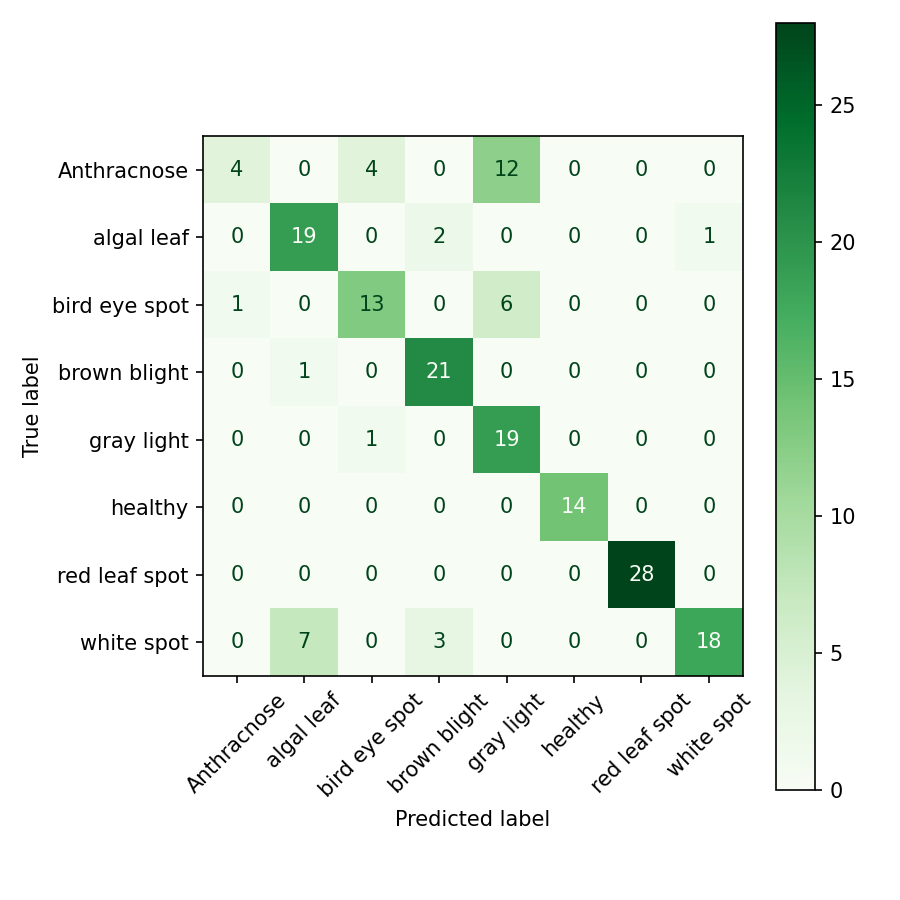
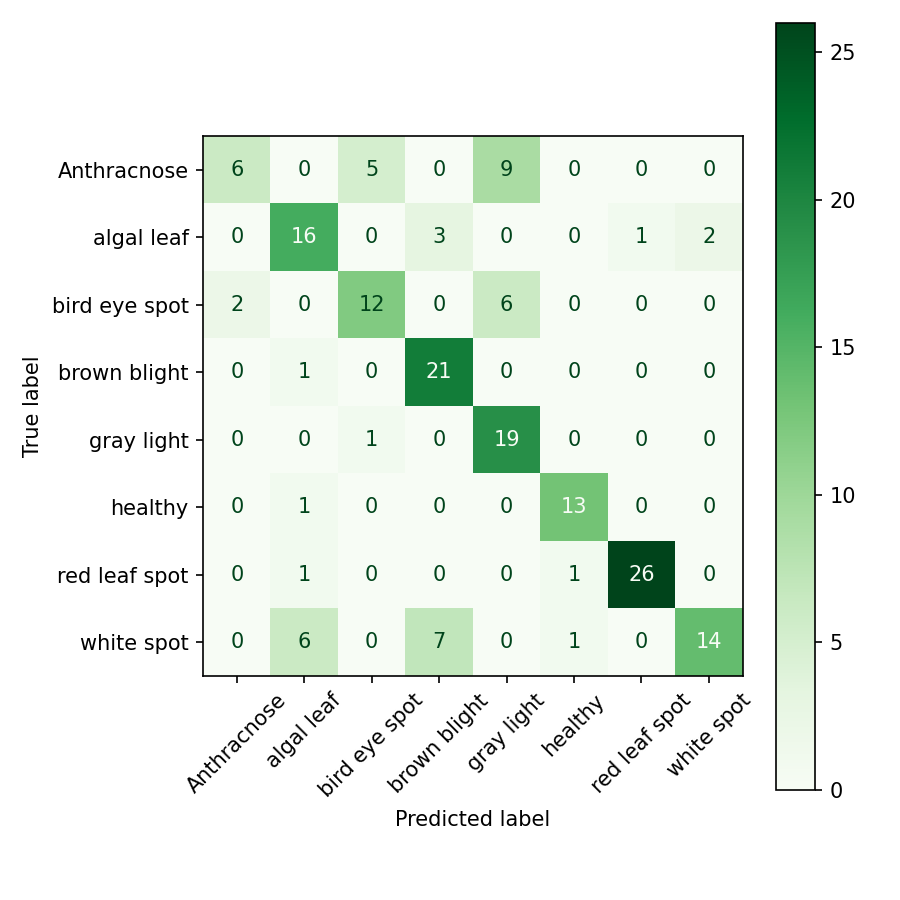
readme update

diff --git a/README.md b/README.md
@@ -20,7 +20,7 @@ This system focuses on **production constraints**: minimizing model size without
 | :--- | :--- | :--- | :--- |
 | **Model Size** | ~9.2 MB | **1.06 MB** | **9x Compression**  |
 | **Format** | FP32 Keras (.h5) | **INT8 TFLite** | Edge Compatible |
-| **Accuracy** | 88.4% (Fine-Tuned) | ~87.9% | <1% Drop |
+| **Accuracy** | 78.4% (Fine-Tuned) | ~77.9% | <1% Drop |
 
 ### 🛠 Tech Stack
 * **Core:** TensorFlow/Keras, OpenCV, NumPy
@@ -51,19 +51,6 @@ The dataset includes the following 8 classes, representing common diseases in te
 Given the limited dataset size (approx. 110 images per class), aggressive data augmentation was applied during training to prevent overfitting and improve generalization:
 * **Geometric:** Random Rotation (±30°), Horizontal Flip, Zoom (20%).
 * **Positional:** Width/Height Shifts (20%) to mimic off-center camera framing.
-
----
-
-## 💡 The "Explainability" Insight
-
-During the development phase, the model initially struggled with "Healthy" leaves under direct flash, misclassifying them as diseased.
-
-By implementing **Grad-CAM**, I visualized the model's attention layer and discovered it was triggering on **specular highlights (glare)** caused by camera flash, confusing them with white lesion spots.
-
-![Grad-CAM Debugging](results/result1.png)
-*Left: Original Image with Glare. Right: Heatmap showing AI falsely focusing on the reflection.*
-
-**Action Taken:** This insight confirmed that for the production hardware (`TeaRetina`), purely software fixes are insufficient. I recommended a hardware-level intervention: **Polarization filters** on the camera lens to eliminate surface glare, rather than just training on more noisy data.
 
 ---
 
@@ -98,25 +85,45 @@ Below are example artifacts you can generate and store in the `results/` directo
 
 ### 1. Training Dynamics
 
-![Training vs Validation Accuracy](results/train_val_accuracy.png)
-*Accuracy evolution across epochs. Ideally, training and validation curves stay close without divergence (overfitting).* 
+![Training vs Validation Metrics](results/train_val_metrics.png)
+*Left: Training and validation accuracy across epochs. Right: Training and validation loss across epochs.* 
 
-![Training vs Validation Loss](results/train_val_loss.png)
-*Loss curves should steadily decrease and stabilize without exploding or oscillating heavily.*
+*Curves should stay close - significant divergence indicates overfitting and suggests stronger regularization or more data is needed.*
 
 ### 2. Confusion Matrix
 
-![Confusion Matrix](results/confusion_matrix.png)
-*Highlights which disease classes are most frequently confused, guiding where to collect more data or refine augmentation.*
+<img src="results/confusion_matrix.png" alt="Confusion Matrix" width="480"/>
+
+*Reduced-size confusion matrix for readability — highlights which disease classes are most frequently confused, guiding where to collect more data or refine augmentation.*
 
 ### 3. Grad-CAM Visual Reasoning
 
-The Grad-CAM visualization below is an example of how the model focuses on discriminatory regions:
+The Grad-CAM visualizations below show two representative cases side-by-side: a failure mode caused by glare, and a correct classification where the model attends to a disease region.
+
+<div style="display:flex;gap:18px;align-items:flex-start;">
+	<div style="flex:1;text-align:center;">
+		<img src="results/result1.png" alt="Grad-CAM Misclassified" width="420"/>
+		<div><em>Misclassified (glare): model focuses on specular highlights rather than lesions.</em></div>
+	</div>
+	<div style="flex:1;text-align:center;">
+		<img src="results/result2.png" alt="Grad-CAM Correctly Classified" width="420"/>
+		<div><em>Correctly classified: heatmap highlights the lesion/necrotic region used for the decision.</em></div>
+	</div>
+</div>
+
+These paired visual explanations are useful for debugging and validation: the left example demonstrates a hardware-driven failure mode (glare) that motivated the polarizing filter recommendation, while the right example confirms the model can correctly localize pathology when image quality is sufficient.
+
+---
+## 💡 The "Explainability" Insight
+
+During the development phase, the model initially struggled with "Healthy" leaves under direct flash, misclassifying them as diseased.
+
+By implementing **Grad-CAM**, I visualized the model's attention layer and discovered it was triggering on **specular highlights (glare)** caused by camera flash, confusing them with white lesion spots.
 
 ![Grad-CAM Debugging](results/result1.png)
 *Left: Original Image with Glare. Right: Heatmap showing AI falsely focusing on the reflection.*
 
-These visual explanations help validate that the model is using **pathology-related regions** (lesions, necrotic zones, color variations) instead of artifacts (background, labels, glare).
+**Action Taken:** This insight confirmed that for the production hardware (`TeaRetina`), purely software fixes are insufficient. I recommended a hardware-level intervention: **Polarization filters** on the camera lens to eliminate surface glare, rather than just training on more noisy data.
 
 ---
 
